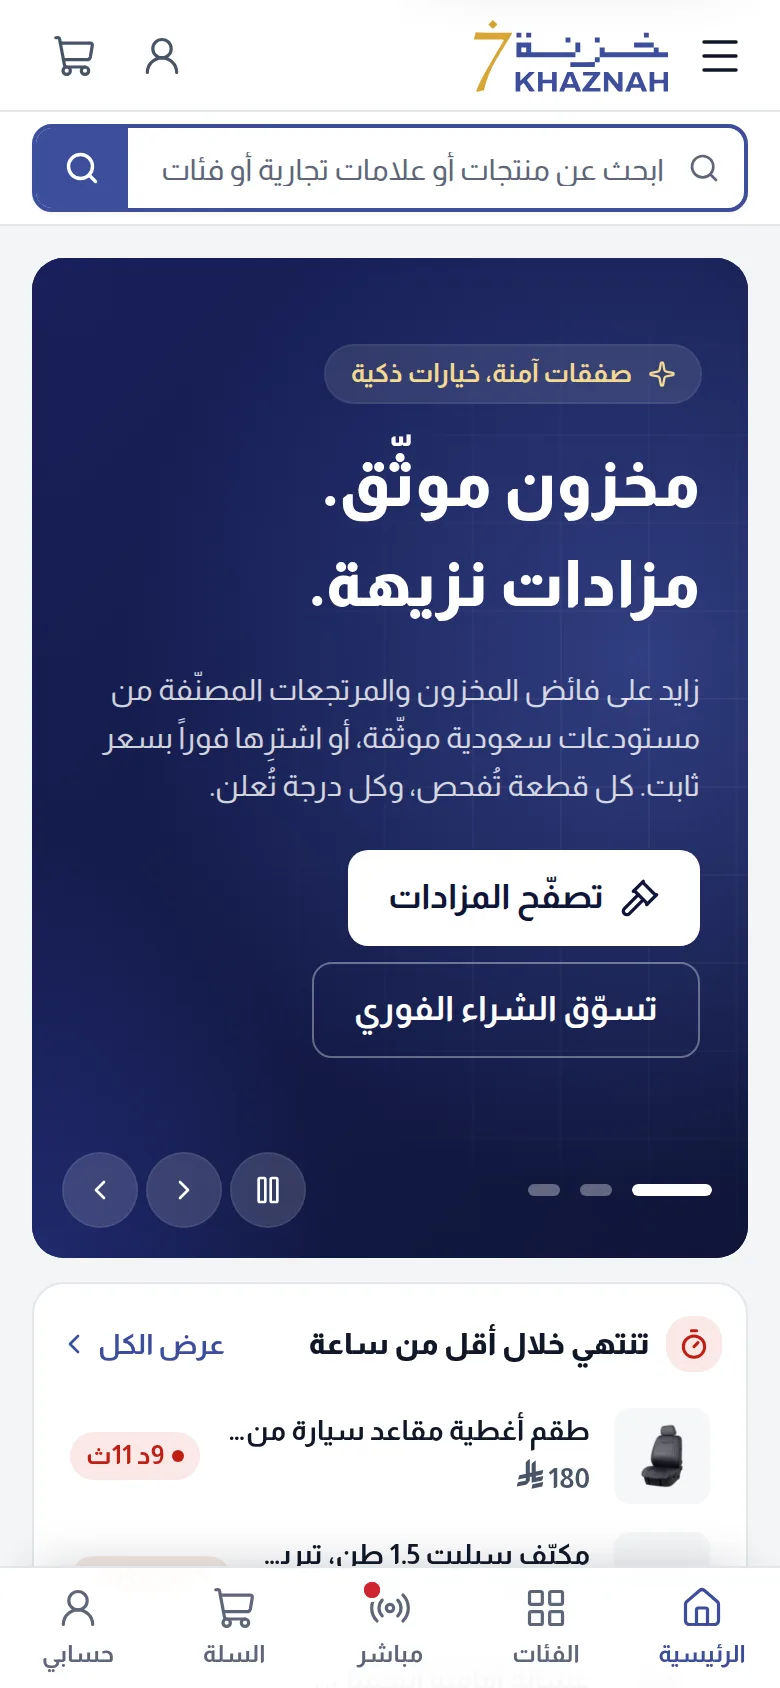
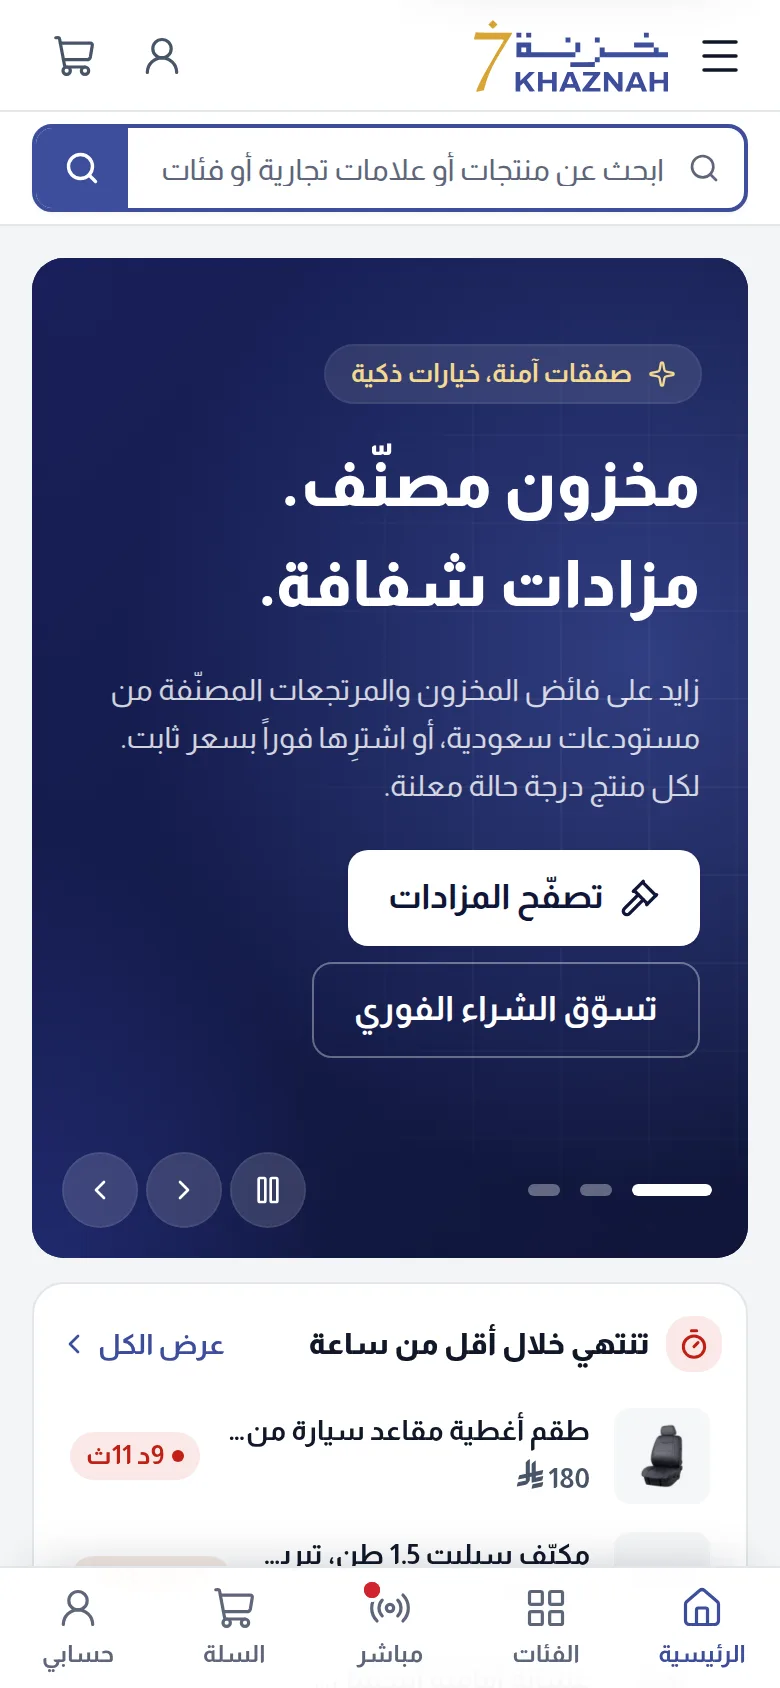
Round 3A.1: clean page load between options; fresh Option 1 thumbnail
Preview corrections only; no option's design changes.

- Leaving an option is now a full page load: the toolbar's option switcher,
  "Back to concepts" and device buttons, the selector's links into an
  option, and the device preview's Close/Desktop links. The options'
  stylesheets share class names, and a client-side route change kept the
  previous option's CSS in the document, so Option 1 could pick up Round 2
  styling from Options 3 and 4 until reload. Screens within an option and
  the language switch stay client-side.
- Option 1 selector thumbnails (b-*.webp) recaptured from the current
  Option 1 homepage with scripts/capture-concepts.mjs; the old
  "Verified inventory. Honest auctions." capture is gone.
- Client guide and README note that switching options reloads the page
  and the demo cart/watchlist starts again.

Claude-Session: https://claude.ai/code/session_01SDCz7T7Y1cUSwp1KJV4JsJ

Changed region(s): [[0.1538, 0.4313, 0.8923, 0.4929], [0.3385, 0.2464, 0.6154, 0.3697]]

diff --git a/design-preview/components/shared/presentation/PresentationBar.jsx b/design-preview/components/shared/presentation/PresentationBar.jsx
@@ -32,6 +32,14 @@ const LABELS = {
 // renders after an interaction (never during the server render).
 const liveUrl = (pathname) => `${pathname}${window.location.search}`;
 
+// Leaving the current concept (another option, the selector or the device
+// preview) is a full page load, deliberately a plain <a> or location.assign
+// rather than a client-side route change. The concepts' stylesheets share
+// class names, and a client-side change keeps the previous concept's CSS in
+// the document, so the next concept would not look exactly as it does on a
+// fresh load. Pages within one concept and the language switch stay
+// client-side.
+
 // Language links render the bare path (identical on server and client) and
 // carry the live query string (filters, theme) only at click time.
 function switchLanguage(event, router, pathname, lang) {
@@ -74,7 +82,9 @@ export function PresentationBar({ concept }) {
   };
 
   const openDevice = (device) => {
-    router.push(`/${lang}/preview?device=${device}&src=${encodeURIComponent(liveUrl(pathname))}`);
+    // A full page load on purpose (see the note at the top of this file).
+    // eslint-disable-next-line @next/next/no-location-assign-relative-destination
+    window.location.assign(`/${lang}/preview?device=${device}&src=${encodeURIComponent(liveUrl(pathname))}`);
   };
 
   // Keyboard shortcut for presenters: "." toggles the bar.
@@ -96,14 +106,14 @@ export function PresentationBar({ concept }) {
         style={{ fontFamily: "var(--font-brand-latin), var(--font-brand-arabic), system-ui, sans-serif" }}
         dir={lang === "ar" ? "rtl" : "ltr"}
       >
-        <Link
+        <a
           href={`/${lang}`}
           className="flex h-8 shrink-0 items-center gap-1.5 rounded-md px-2 font-medium text-[var(--pbar-fg)] hover:bg-white/10"
           aria-label={L("backToConcepts")}
         >
           <ArrowLeft aria-hidden="true" className="flip-rtl size-4" />
           <span className="hidden md:inline">{L("concepts")}</span>
-        </Link>
+        </a>
 
         <span aria-hidden="true" className="h-5 w-px shrink-0 bg-white/12" />
 
@@ -126,7 +136,7 @@ export function PresentationBar({ concept }) {
           {menuOpen ? (
             <div role="menu" className="kz-fade-up absolute start-0 top-[calc(100%+8px)] w-72 overflow-hidden rounded-xl border border-white/10 bg-[#12151d] p-1.5 shadow-2xl">
               {CONCEPTS.map((c) => (
-                <Link
+                <a
                   key={c.id}
                   role="menuitem"
                   href={withConcept(liveUrl(pathname), c.id)}
@@ -143,7 +153,7 @@ export function PresentationBar({ concept }) {
                       ))}
                     </span>
                   </span>
-                </Link>
+                </a>
               ))}
               <div aria-hidden="true" className="mx-1 my-1.5 h-px bg-white/10" />
               <button

diff --git a/design-preview/components/shared/presentation/ConceptSelector.jsx b/design-preview/components/shared/presentation/ConceptSelector.jsx
@@ -62,9 +62,12 @@ function ConceptCard({ concept, lang, index }) {
       className="kz-fade-up group flex scroll-mt-6 flex-col rounded-[24px] border border-line bg-surface p-3 shadow-card sm:p-4"
       style={{ animationDelay: `${120 + index * 90}ms` }}
     >
-      <Link href={base} tabIndex={-1} aria-hidden="true" className="block">
+      {/* Links into an option are plain <a> (a full page load), so each
+          option always opens exactly as a fresh load, whichever option was
+          visited before (see PresentationBar). */}
+      <a href={base} tabIndex={-1} aria-hidden="true" className="block">
         <Preview concept={concept} lang={lang} name={name} />
-      </Link>
+      </a>
       <div className="flex flex-1 flex-col px-2 pb-3 pt-7 sm:px-4 sm:pb-4">
         <div className="flex items-start justify-between gap-4">
           <div className="min-w-0">
@@ -109,13 +112,13 @@ function ConceptCard({ concept, lang, index }) {
 
         <div className="mt-auto pt-7">
           <div className="flex flex-wrap items-center gap-3">
-            <Link
+            <a
               href={base}
               className="inline-flex h-12 items-center gap-2.5 rounded-full bg-secondary px-6 text-[15px] font-semibold text-on-secondary transition-[background-color,transform] hover:bg-primary active:translate-y-px"
             >
               {fill(tr(S.explore, lang), { id: concept.letter })}
               <Arrow aria-hidden="true" className="size-4 transition-transform group-hover:translate-x-0.5 rtl:group-hover:-translate-x-0.5" />
-            </Link>
+            </a>
             <Link
               href={`/${lang}/preview?device=mobile&src=${encodeURIComponent(base)}`}
               className="inline-flex h-12 items-center gap-2 rounded-full border border-line-strong px-5 text-[14px] font-medium text-fg transition-colors hover:border-fg"
@@ -129,9 +132,9 @@ function ConceptCard({ concept, lang, index }) {
             <ul className="mt-1.5 flex flex-wrap gap-x-4 gap-y-1.5 text-[13px] text-fg-2">
               {PAGES.map((page) => (
                 <li key={page.key}>
-                  <Link href={`${base}${page.path}`} className="underline-offset-4 hover:text-fg hover:underline">
+                  <a href={`${base}${page.path}`} className="underline-offset-4 hover:text-fg hover:underline">
                     {tr(page.label, lang)}
-                  </Link>
+                  </a>
                 </li>
               ))}
             </ul>

diff --git a/design-preview/components/shared/presentation/DevicePreview.jsx b/design-preview/components/shared/presentation/DevicePreview.jsx
@@ -69,10 +69,12 @@ export function DevicePreview({ lang }) {
           <ArrowLeft aria-hidden="true" className="flip-rtl size-4" />
           <span className="hidden md:inline">{tr(T.concepts, lang)}</span>
         </Link>
-        <Link href={src} className="flex h-9 shrink-0 items-center gap-2 rounded-md px-2.5 font-medium hover:bg-white/10" aria-label={tr(T.close, lang)}>
+        {/* Back to the option itself is a full page load (plain <a>), so it
+            opens exactly as a fresh load (see PresentationBar). */}
+        <a href={src} className="flex h-9 shrink-0 items-center gap-2 rounded-md px-2.5 font-medium hover:bg-white/10" aria-label={tr(T.close, lang)}>
           <X aria-hidden="true" className="size-4" />
           <span className="hidden sm:inline">{tr(T.back, lang)}</span>
-        </Link>
+        </a>
         {conceptInfo ? (
           <p className="hidden min-w-0 truncate text-[#8c909c] lg:block">
             <span className="me-2 rounded bg-[#D8A535] px-1.5 py-0.5 text-[11px] font-bold text-[#141006]">{conceptInfo.letter}</span>
@@ -81,9 +83,9 @@ export function DevicePreview({ lang }) {
           </p>
         ) : null}
         <div className="mx-auto flex shrink-0 items-center rounded-lg border border-white/10 p-0.5" role="group" aria-label={tr(T.device, lang)}>
-          <Link href={src} className="grid h-8 w-10 place-items-center rounded-md text-[#8c909c] hover:bg-white/10 hover:text-white" aria-label={tr(T.desktop, lang)}>
+          <a href={src} className="grid h-8 w-10 place-items-center rounded-md text-[#8c909c] hover:bg-white/10 hover:text-white" aria-label={tr(T.desktop, lang)}>
             <Monitor aria-hidden="true" className="size-4" />
-          </Link>
+          </a>
           <Link href={deviceHref("tablet")} aria-current={deviceKey === "tablet" ? "true" : undefined} className={`grid h-8 w-10 place-items-center rounded-md ${deviceKey === "tablet" ? "bg-white/15 text-white" : "text-[#8c909c] hover:bg-white/10 hover:text-white"}`} aria-label={tr(T.tablet, lang)}>
             <Tablet aria-hidden="true" className="size-4" />
           </Link>

diff --git a/design-preview/README.md b/design-preview/README.md
@@ -85,6 +85,10 @@ deploy to a live Khazna domain; use a temporary preview subdomain.
 - **Presentation bar** (top of every concept): back to concepts, switch concept,
   jump between screens, **EN / العربية**, **light / dark**, and **desktop /
   tablet / mobile** device frames. Press **`.`** to hide or show the bar.
+  Switching concept (and leaving for the selector or a device frame) is a full
+  page load, so no concept's styles carry into the next one; the in-memory
+  demo cart and watchlist start fresh. Screens within a concept and the
+  language switch stay instant.
 - Useful URL options:
   - `?theme=dark` or `?theme=light` — force the appearance (remembered per concept).
   - `/{lang}/preview?device=mobile&src=/en/concept-b/browse` — device frame for any screen.

diff --git a/CLIENT_PREVIEW_GUIDE.md b/CLIENT_PREVIEW_GUIDE.md
@@ -42,6 +42,9 @@ The options are not ranked, and none is recommended over the others.
   - change the appearance (sun / moon button);
   - open a tablet or mobile frame;
   - return to the start page (**Concepts**).
+- **Switching options** loads the page afresh, so every option always
+  appears exactly as designed. Anything added to the demo cart or watchlist
+  starts again in each option.
 - **To see a design on its own**, hide the bar with its hide button or the
   full-stop key (**.**). Bring it back with the small tab at the side of the
   screen.
